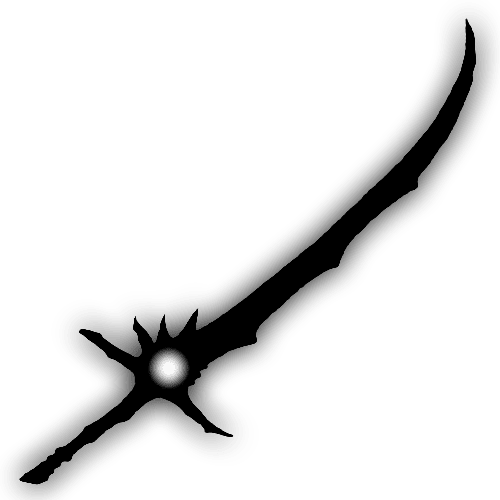
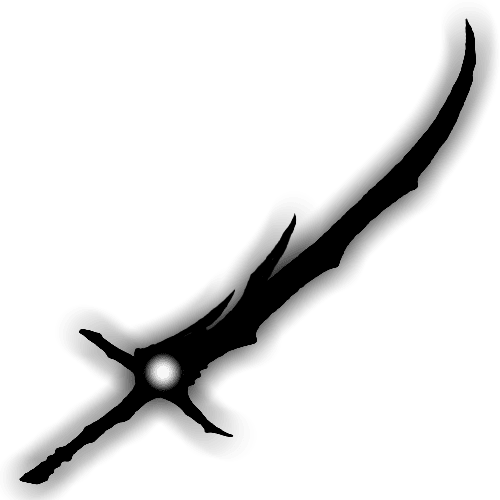
arcane

Changed region(s): [[0.24, 0.42, 0.63, 0.78]]

diff --git a/core/src/com/everlongn/assets/Items.java b/core/src/com/everlongn/assets/Items.java
@@ -7,10 +7,11 @@ import com.badlogic.gdx.graphics.g2d.TextureRegion;
 
 public class Items {
     public static Texture logSprite, stoneSprite;
-    public static Texture shadowStaffSprite, darkBaneSprite, broadSwordSprite, dragonDanceSprite;
+    public static Texture shadowStaffSprite, darkBaneSprite, broadSwordSprite, dragonDanceSprite, arcaneCasterSprite;
 
     public static TextureRegion log, stone;
-    public static TextureRegion shadowStaffL, shadowStaffR, darkBaneL, darkBaneR, broadSwordL, broadSwordR, dragonDanceL, dragonDanceR;
+    public static TextureRegion shadowStaffL, shadowStaffR, arcaneCasterL, arcaneCasterR;
+    public static TextureRegion darkBaneL, darkBaneR, broadSwordL, broadSwordR, dragonDanceL, dragonDanceR;
 
     public static void init() {
         logSprite = new Texture(Gdx.files.internal("items/logItem.png"),true);
@@ -21,10 +22,17 @@ public class Items {
         stoneSprite.setFilter(Texture.TextureFilter.MipMapLinearLinear, Texture.TextureFilter.MipMapLinearLinear);
         stone = new TextureRegion(stoneSprite, 0, 0, logSprite.getWidth(), logSprite.getHeight());
 
-        shadowStaffSprite = new Texture(Gdx.files.internal("magic/shadowStaff.png"), true);
+        arcaneCasterSprite = new Texture(Gdx.files.internal("arcane/arcaneCaster.png"), true);
+        arcaneCasterSprite.setFilter(Texture.TextureFilter.MipMapLinearLinear, Texture.TextureFilter.MipMapLinearLinear);
+        arcaneCasterR = new TextureRegion(arcaneCasterSprite, 0, 0, arcaneCasterSprite.getWidth(), arcaneCasterSprite.getHeight());
+        TextureRegion temp = new TextureRegion(arcaneCasterSprite, 0, 0, arcaneCasterSprite.getWidth(), arcaneCasterSprite.getHeight());
+        temp.flip(true, false);
+        arcaneCasterL = temp;
+
+        shadowStaffSprite = new Texture(Gdx.files.internal("arcane/shadowStaff.png"), true);
         shadowStaffSprite.setFilter(Texture.TextureFilter.MipMapLinearLinear, Texture.TextureFilter.MipMapLinearLinear);
         shadowStaffR = new TextureRegion(shadowStaffSprite, 0, 0, shadowStaffSprite.getWidth(), shadowStaffSprite.getHeight());
-        TextureRegion temp = new TextureRegion(shadowStaffSprite, 0, 0, shadowStaffSprite.getWidth(), shadowStaffSprite.getHeight());
+        temp = new TextureRegion(shadowStaffSprite, 0, 0, shadowStaffSprite.getWidth(), shadowStaffSprite.getHeight());
         temp.flip(true, false);
         shadowStaffL = temp;
 

diff --git a/core/src/com/everlongn/entities/projectiles/ArcaneTrail.java b/core/src/com/everlongn/entities/projectiles/ArcaneTrail.java
@@ -1,0 +1,54 @@
+package com.everlongn.entities.projectiles;
+
+import com.badlogic.gdx.Gdx;
+import com.badlogic.gdx.graphics.g2d.ParticleEffect;
+import com.badlogic.gdx.graphics.g2d.SpriteBatch;
+import com.badlogic.gdx.math.Vector2;
+import com.everlongn.assets.Entities;
+import com.everlongn.entities.Player;
+import com.everlongn.entities.Projectile;
+import com.everlongn.game.ControlCenter;
+import com.everlongn.utils.Constants;
+import com.everlongn.utils.Tool;
+
+public class ArcaneTrail extends Projectile {
+    public ParticleEffect movingParticle;
+    public int direction;
+    public static float maxLife = 60;
+
+    public float life, finishCounter, figureAlpha, angle;
+    public boolean lifeOut, casted;
+
+    public ArcaneTrail(ControlCenter c, float x, float y, int width, int height, float density, int direction, float angle) {
+        super(c, x, y, width, height, density);
+        this.direction = direction;
+        this.angle = angle;
+
+        speedX = (float)Math.cos(angle)*10;
+        speedY = (float)Math.sin(angle)*10;
+
+        movingParticle = new ParticleEffect();
+        movingParticle.load(Gdx.files.internal("particles/arcaneTrail"), Gdx.files.internal(""));
+        movingParticle.getEmitters().first().setPosition(body.getPosition().x * Constants.PPM, body.getPosition().y * Constants.PPM);
+        movingParticle.start();
+
+        body = Tool.createEntity((int)(x), (int)(y), width, height, false, 1, false,
+                Constants.BIT_PARTICLE, (short)(Constants.BIT_TILE | Constants.BIT_ENEMY), (short)0);
+    }
+
+    @Override
+    public void tick() {
+        moveByVelocityX();
+        moveByVelocityY();
+
+        movingParticle.getEmitters().first().setPosition(body.getPosition().x * Constants.PPM, body.getPosition().y * Constants.PPM);
+        movingParticle.update(Gdx.graphics.getDeltaTime());
+    }
+
+    @Override
+    public void render(SpriteBatch batch) {
+        batch.begin();
+        movingParticle.draw(batch);
+        batch.end();
+    }
+}

diff --git a/core/src/com/everlongn/entities/Player.java b/core/src/com/everlongn/entities/Player.java
@@ -10,6 +10,7 @@ import com.badlogic.gdx.math.Vector2;
 import com.badlogic.gdx.math.Vector3;
 import com.everlongn.assets.Entities;
 import com.everlongn.entities.dream.Scavenger;
+import com.everlongn.entities.projectiles.ArcaneTrail;
 import com.everlongn.entities.projectiles.Shadow;
 import com.everlongn.game.ControlCenter;
 import com.everlongn.items.Arcane;
@@ -408,6 +409,16 @@ public class Player extends Creature {
                     Shadow shadow = shadows.poll();
                     body.setTransform(shadow.body.getPosition().x - width/2, shadow.body.getPosition().y, 0);
                     shadow.life = Shadow.maxLife;
+                }
+            }
+        } else if(Inventory.inventory[Inventory.selectedIndex].name.equals("Arcane Caster")) {
+            if(Gdx.input.isKeyJustPressed(Input.Keys.R)) {
+                if(direction == 0) {
+                    ArcaneTrail arcaneTrail = new ArcaneTrail(c, body.getPosition().x * PPM + width / 2, body.getPosition().y * PPM, width, height, 1, direction, armRotationRight = aimAngle + 45 - 360);
+                    EntityManager.entities.add(arcaneTrail);
+                } else {
+                    ArcaneTrail arcaneTrail = new ArcaneTrail(c, body.getPosition().x * PPM + width / 2, body.getPosition().y * PPM, width, height, 1, direction, armRotationRight = aimAngle + 45 - 90);
+                    EntityManager.entities.add(arcaneTrail);
                 }
             }
         }

diff --git a/core/src/com/everlongn/items/Arcane.java b/core/src/com/everlongn/items/Arcane.java
@@ -2,15 +2,13 @@ package com.everlongn.items;
 
 import com.badlogic.gdx.graphics.g2d.TextureRegion;
 import com.everlongn.assets.Items;
-import com.everlongn.entities.EntityManager;
-import com.everlongn.entities.Player;
-import com.everlongn.entities.projectiles.Shadow;
-
-import static com.everlongn.utils.Constants.PPM;
 
 public class Arcane extends Weapon {
-    public static Arcane shadowStaff = new Arcane(Items.shadowStaffR, "Shadow Manipulator", 200, false, true, 100, 100, 1, "Your shadow seem a bit abnormal...",
+    public static Arcane shadowStaff = new Arcane(Items.shadowStaffR, "Shadow Manipulator", 200, false, false, 100, 100, 1, "Your shadow seem a bit abnormal...",
             53, 58, new TextureRegion[]{Items.shadowStaffL, Items.shadowStaffR}, new String[]{"Shadow", "Arcane"}, 10, 2, 0);
+
+    public static Arcane arcaneCaster = new Arcane(Items.arcaneCasterL, "Arcane Caster", 201, false, true, 100, 100, 1, "Power beyond your understanding...",
+            53, 58, new TextureRegion[]{Items.arcaneCasterL, Items.arcaneCasterR}, new String[]{"Arcane"}, 10, 2, 0);
 
     public Arcane(TextureRegion texture, String name, int id, boolean stackable, boolean degeneratable, int width, int height, int capacity, String description, float holdX, float holdY, TextureRegion[] display, String[] elemental,
                   int healthConsumption, float refreshSpeed, int burst) {

diff --git a/core/src/com/everlongn/items/Inventory.java b/core/src/com/everlongn/items/Inventory.java
@@ -35,6 +35,7 @@ public class Inventory {
         addItem(Melee.broadSword.createNew(1));
         addItem(Arcane.shadowStaff.createNew(1));
         addItem(Melee.dragondance);
+        addItem(Arcane.arcaneCaster);
     }
 
     public void tick() {
